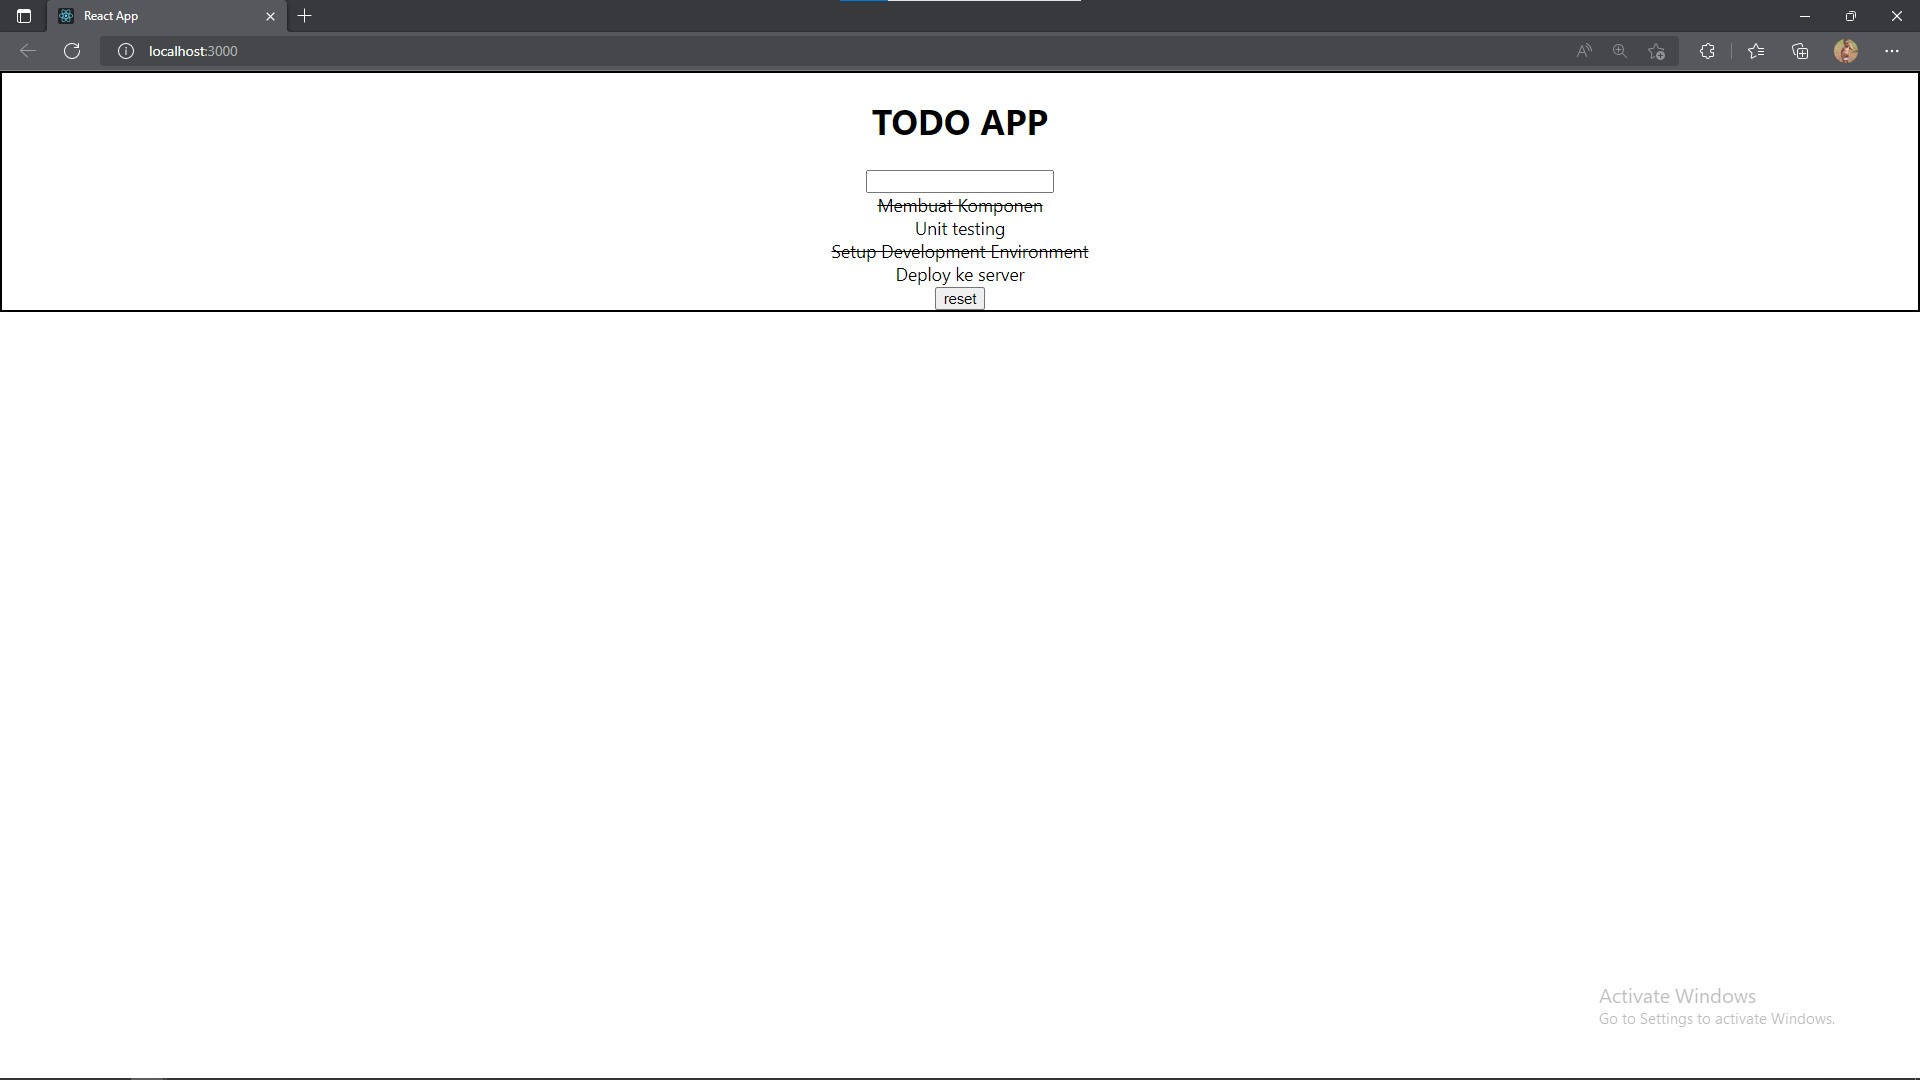
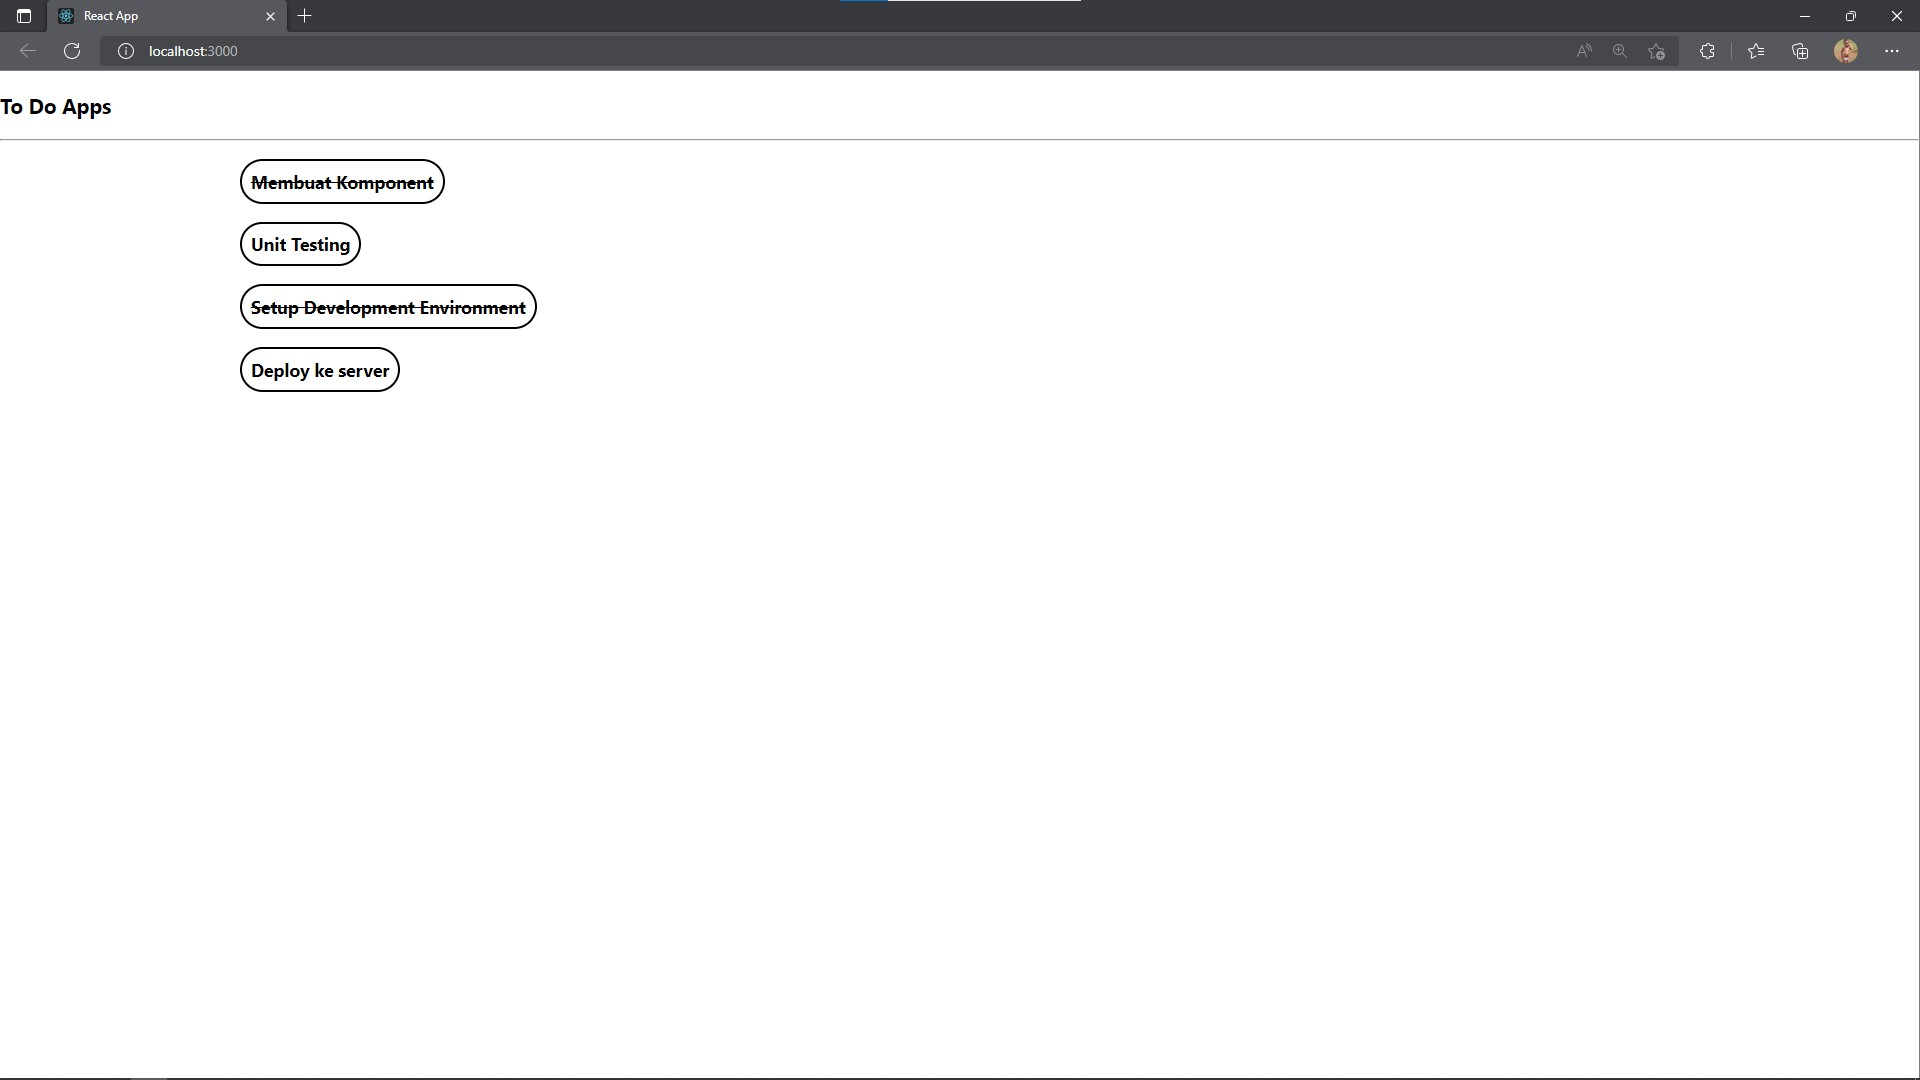
Todo App

diff --git a/12_React-Fundamental/praktikum/src/App.js b/12_React-Fundamental/praktikum/src/App.js
@@ -1,41 +1,51 @@
-import React, { useState } from "react";
-
-import Form from "./Form";
+import React from "react";
 import "./App.css";
 
-export default () => {
-  const [todos, setTodos] = useState([]);
-
-  const toggleComplete = (i) =>
-    setTodos(
-      todos.map((todo, k) =>
-        k === i
-          ? {
-              ...todo,
-              complete: !todo.complete,
-            }
-          : todo
-      )
-    );
-
+function App() {
+  const todos = [
+    {
+      id: 1,
+      title: "Membuat Komponent",
+      completed: true,
+    },
+    {
+      id: 2,
+      title: "Unit Testing",
+      completed: false,
+    },
+    {
+      id: 3,
+      title: "Setup Development Environment",
+      completed: true,
+    },
+    {
+      id: 4,
+      title: "Deploy ke server",
+      completed: false,
+    },
+  ];
   return (
-    <div className="App">
-      <h1>TODO APP</h1>
-      <Form onSubmit={(text) => setTodos([{ text, complete: false }, ...todos])} />
-      <div>
-        {todos.map(({ text, complete }, i) => (
-          <div
-            key={text}
-            onClick={() => toggleComplete(i)}
-            style={{
-              textDecoration: complete ? "line-through" : "",
-            }}
-          >
-            {text}
-          </div>
-        ))}
+    <div className="container">
+      <div className="container-item-header">
+        <h3>To Do Apps</h3>
+        <hr />
       </div>
-      <button onClick={() => setTodos([])}>reset</button>
+      <div className="container-item main-section">
+        {todos.length !== 0 ? (
+          todos.map((todo) => {
+            const { id, title, completed } = todo;
+            return (
+              <p key={id} className={completed ? "todo-title todo-title-done" : "todo-title"}>
+                {title}
+              </p>
+            );
+          })
+        ) : (
+          <p>Now Loading...</p>
+        )}
+      </div>
     </div>
   );
-};
+}
+
+export default App;

diff --git a/12_React-Fundamental/praktikum/src/App.css b/12_React-Fundamental/praktikum/src/App.css
@@ -1,33 +1,26 @@
-.App {
+.container {
+  width: 100%;
+}
+.container-item {
+  width: 75%;
+  margin: auto;
+}
+.container-item h3 {
   text-align: center;
-  border: 2px solid;
 }
 
-.App-logo {
-  animation: App-logo-spin infinite 20s linear;
-  height: 40vmin;
+.todo-title {
+  padding: 8px;
+  font-weight: bold;
+  border: 2px solid #000;
+  border-radius: 2rem;
+  width: fit-content;
 }
-
-.App-header {
-  background-color: #282c34;
-  min-height: 100vh;
-  display: flex;
-  flex-direction: column;
-  align-items: center;
-  justify-content: center;
-  font-size: calc(10px + 2vmin);
-  color: white;
-}
-
-.App-link {
-  color: #61dafb;
-}
-
-@keyframes App-logo-spin {
-  from {
-    transform: rotate(0deg);
-  }
-  to {
-    transform: rotate(360deg);
-  }
+.todo-title-done {
+  text-decoration: line-through;
+  padding: 8px;
+  font-weight: bold;
+  border: 2px solid #000;
+  border-radius: 2rem;
+  width: fit-content;
 }

diff --git a/12_React-Fundamental/praktikum/src/index.js b/12_React-Fundamental/praktikum/src/index.js
@@ -1,10 +1,9 @@
-import React from 'react';
-import ReactDOM from 'react-dom/client';
-import './index.css';
-import App from './App';
-import reportWebVitals from './reportWebVitals';
+import React from "react";
+import ReactDOM from "react-dom/client";
+import "./index.css";
+import App from "./App";
 
-const root = ReactDOM.createRoot(document.getElementById('root'));
+const root = ReactDOM.createRoot(document.getElementById("root"));
 root.render(
   <React.StrictMode>
     <App />
@@ -14,4 +13,3 @@ root.render(
 // If you want to start measuring performance in your app, pass a function
 // to log results (for example: reportWebVitals(console.log))
 // or send to an analytics endpoint. Learn more: https://bit.ly/CRA-vitals
-reportWebVitals();

diff --git a/12_React-Fundamental/praktikum/src/index.scss b/12_React-Fundamental/praktikum/src/index.scss
@@ -1,0 +1,25 @@
+.container {
+    width: 100%;
+  
+    &-item {
+      width: 75%;
+      margin: auto;
+      h3 {
+        text-align: center;
+      }
+    }
+  }
+  
+  .todo {
+    &-title {
+      padding: 8px;
+      font-weight: bold;
+      border: 2px solid #000;
+      border-radius: 2rem;
+      width: fit-content;
+  
+      &-done {
+        text-decoration: line-through;
+      }
+    }
+  }
